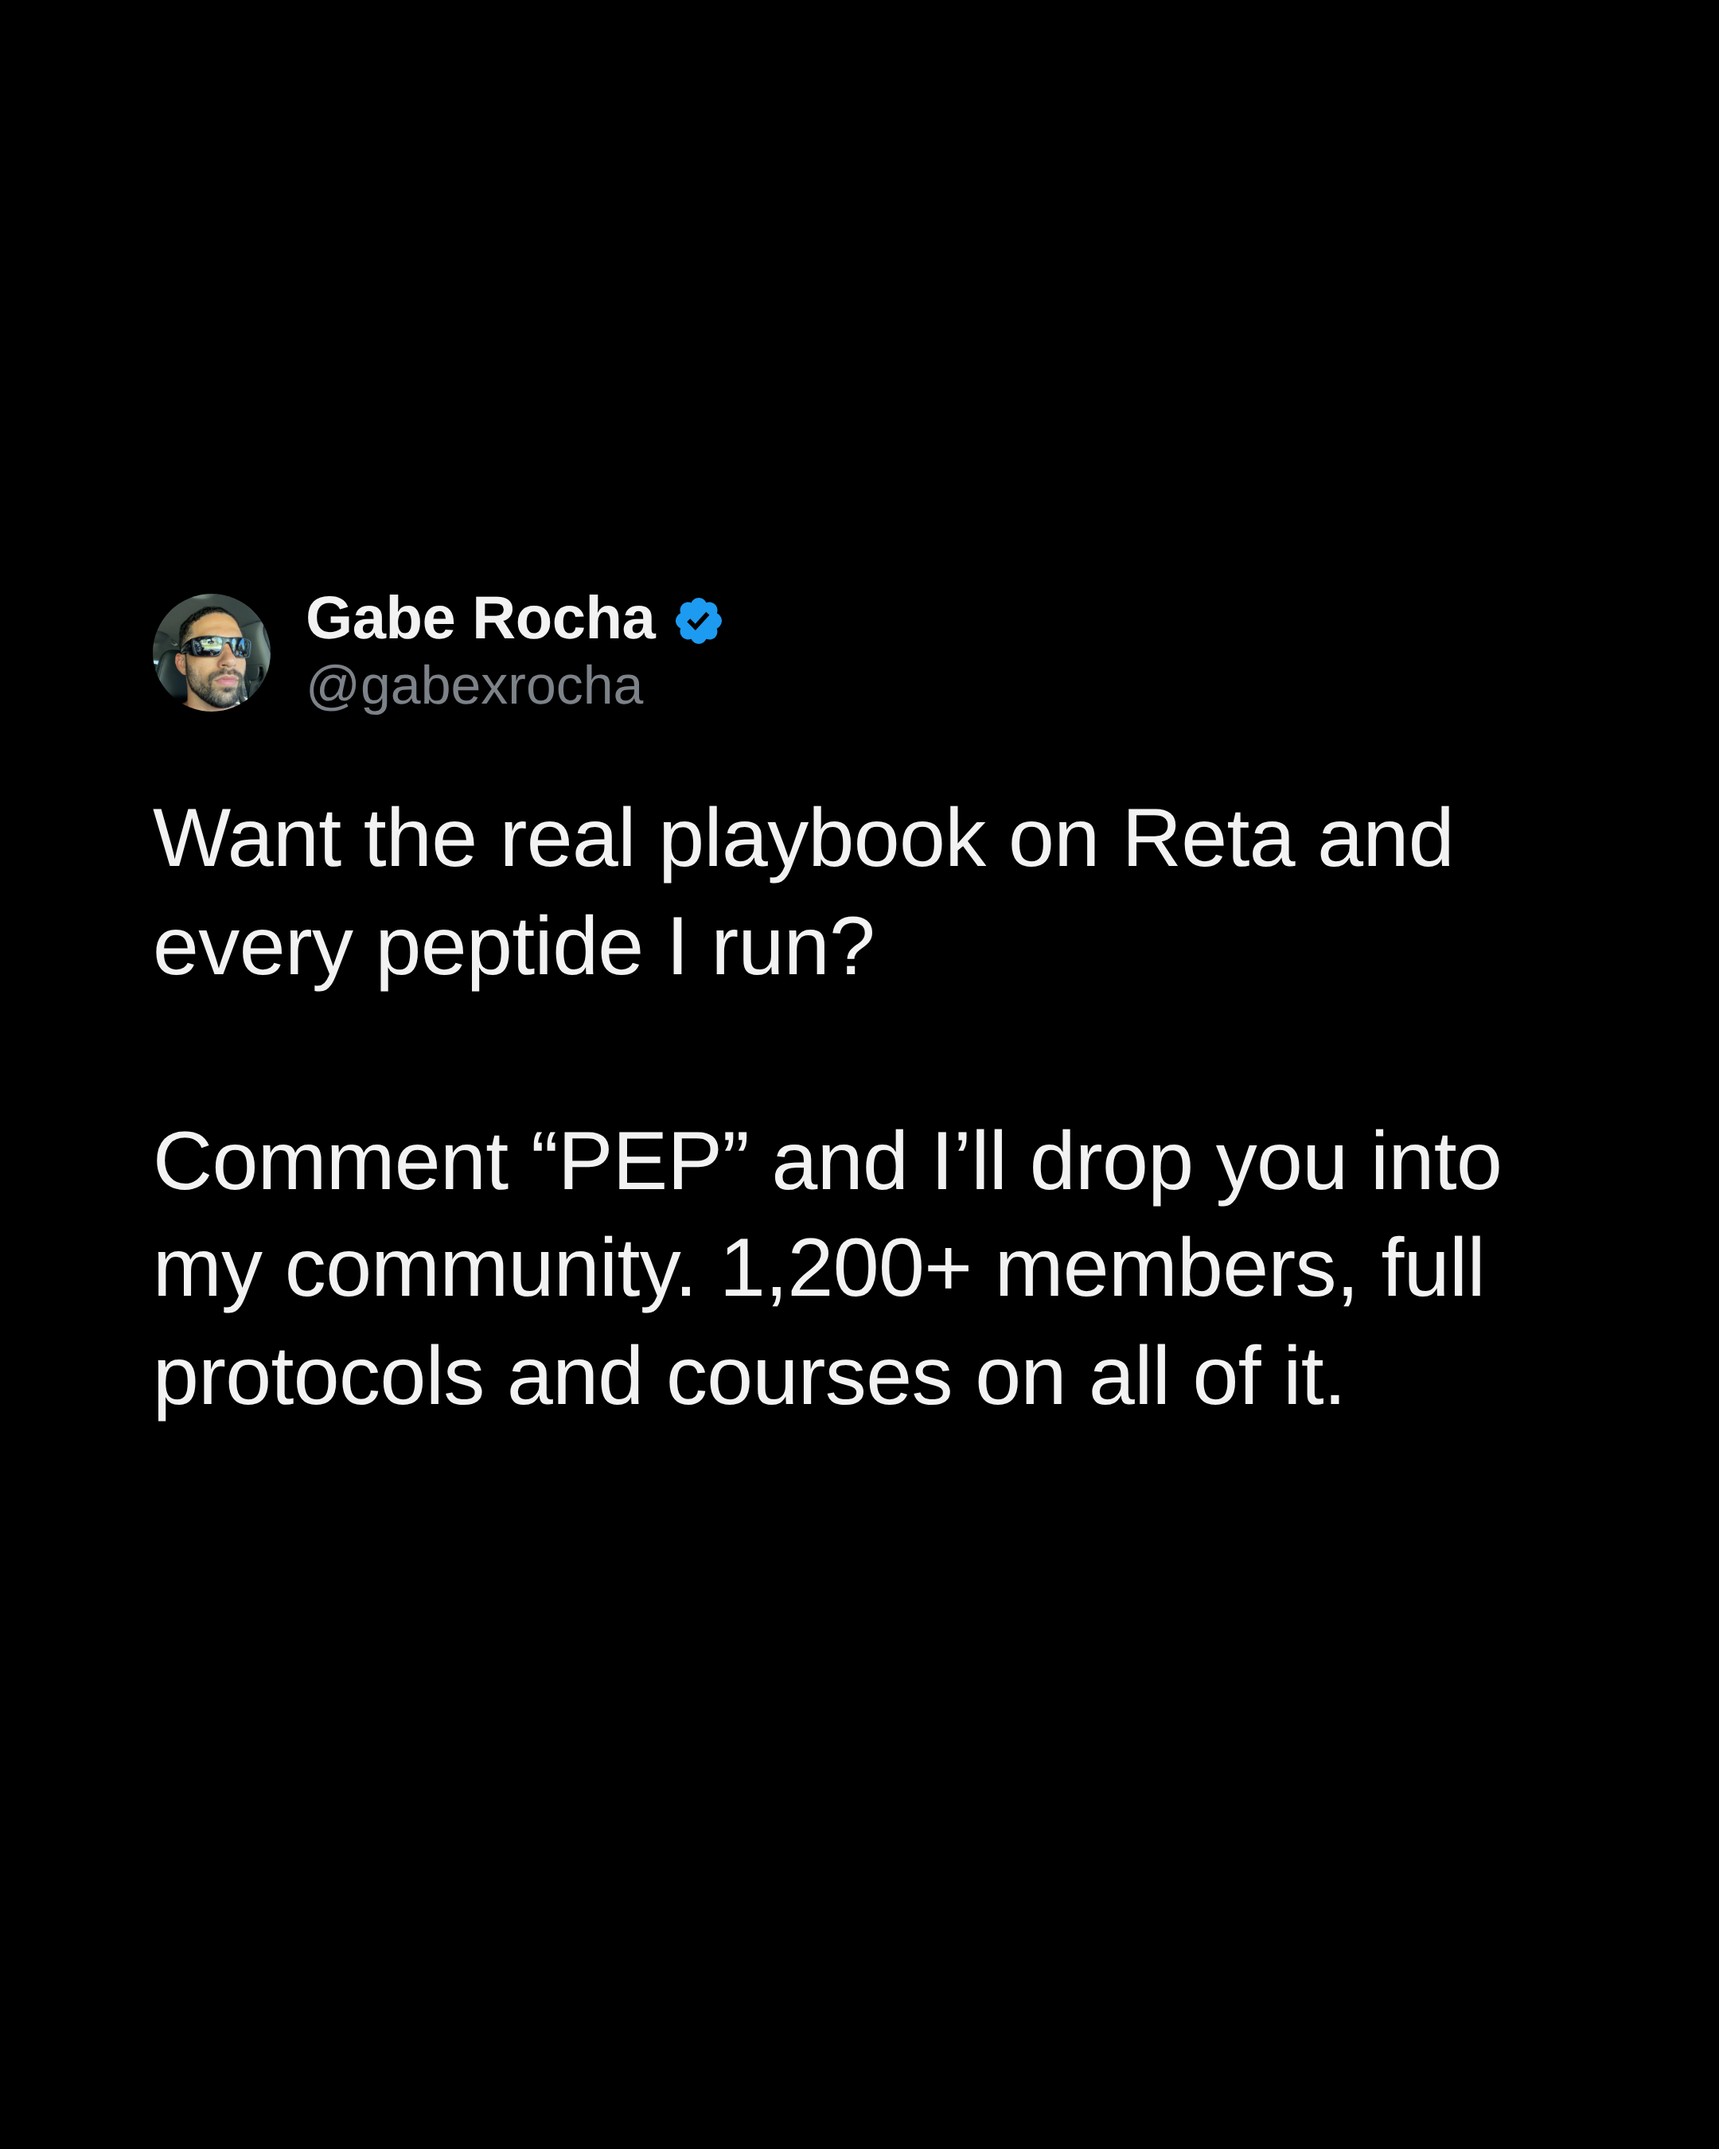
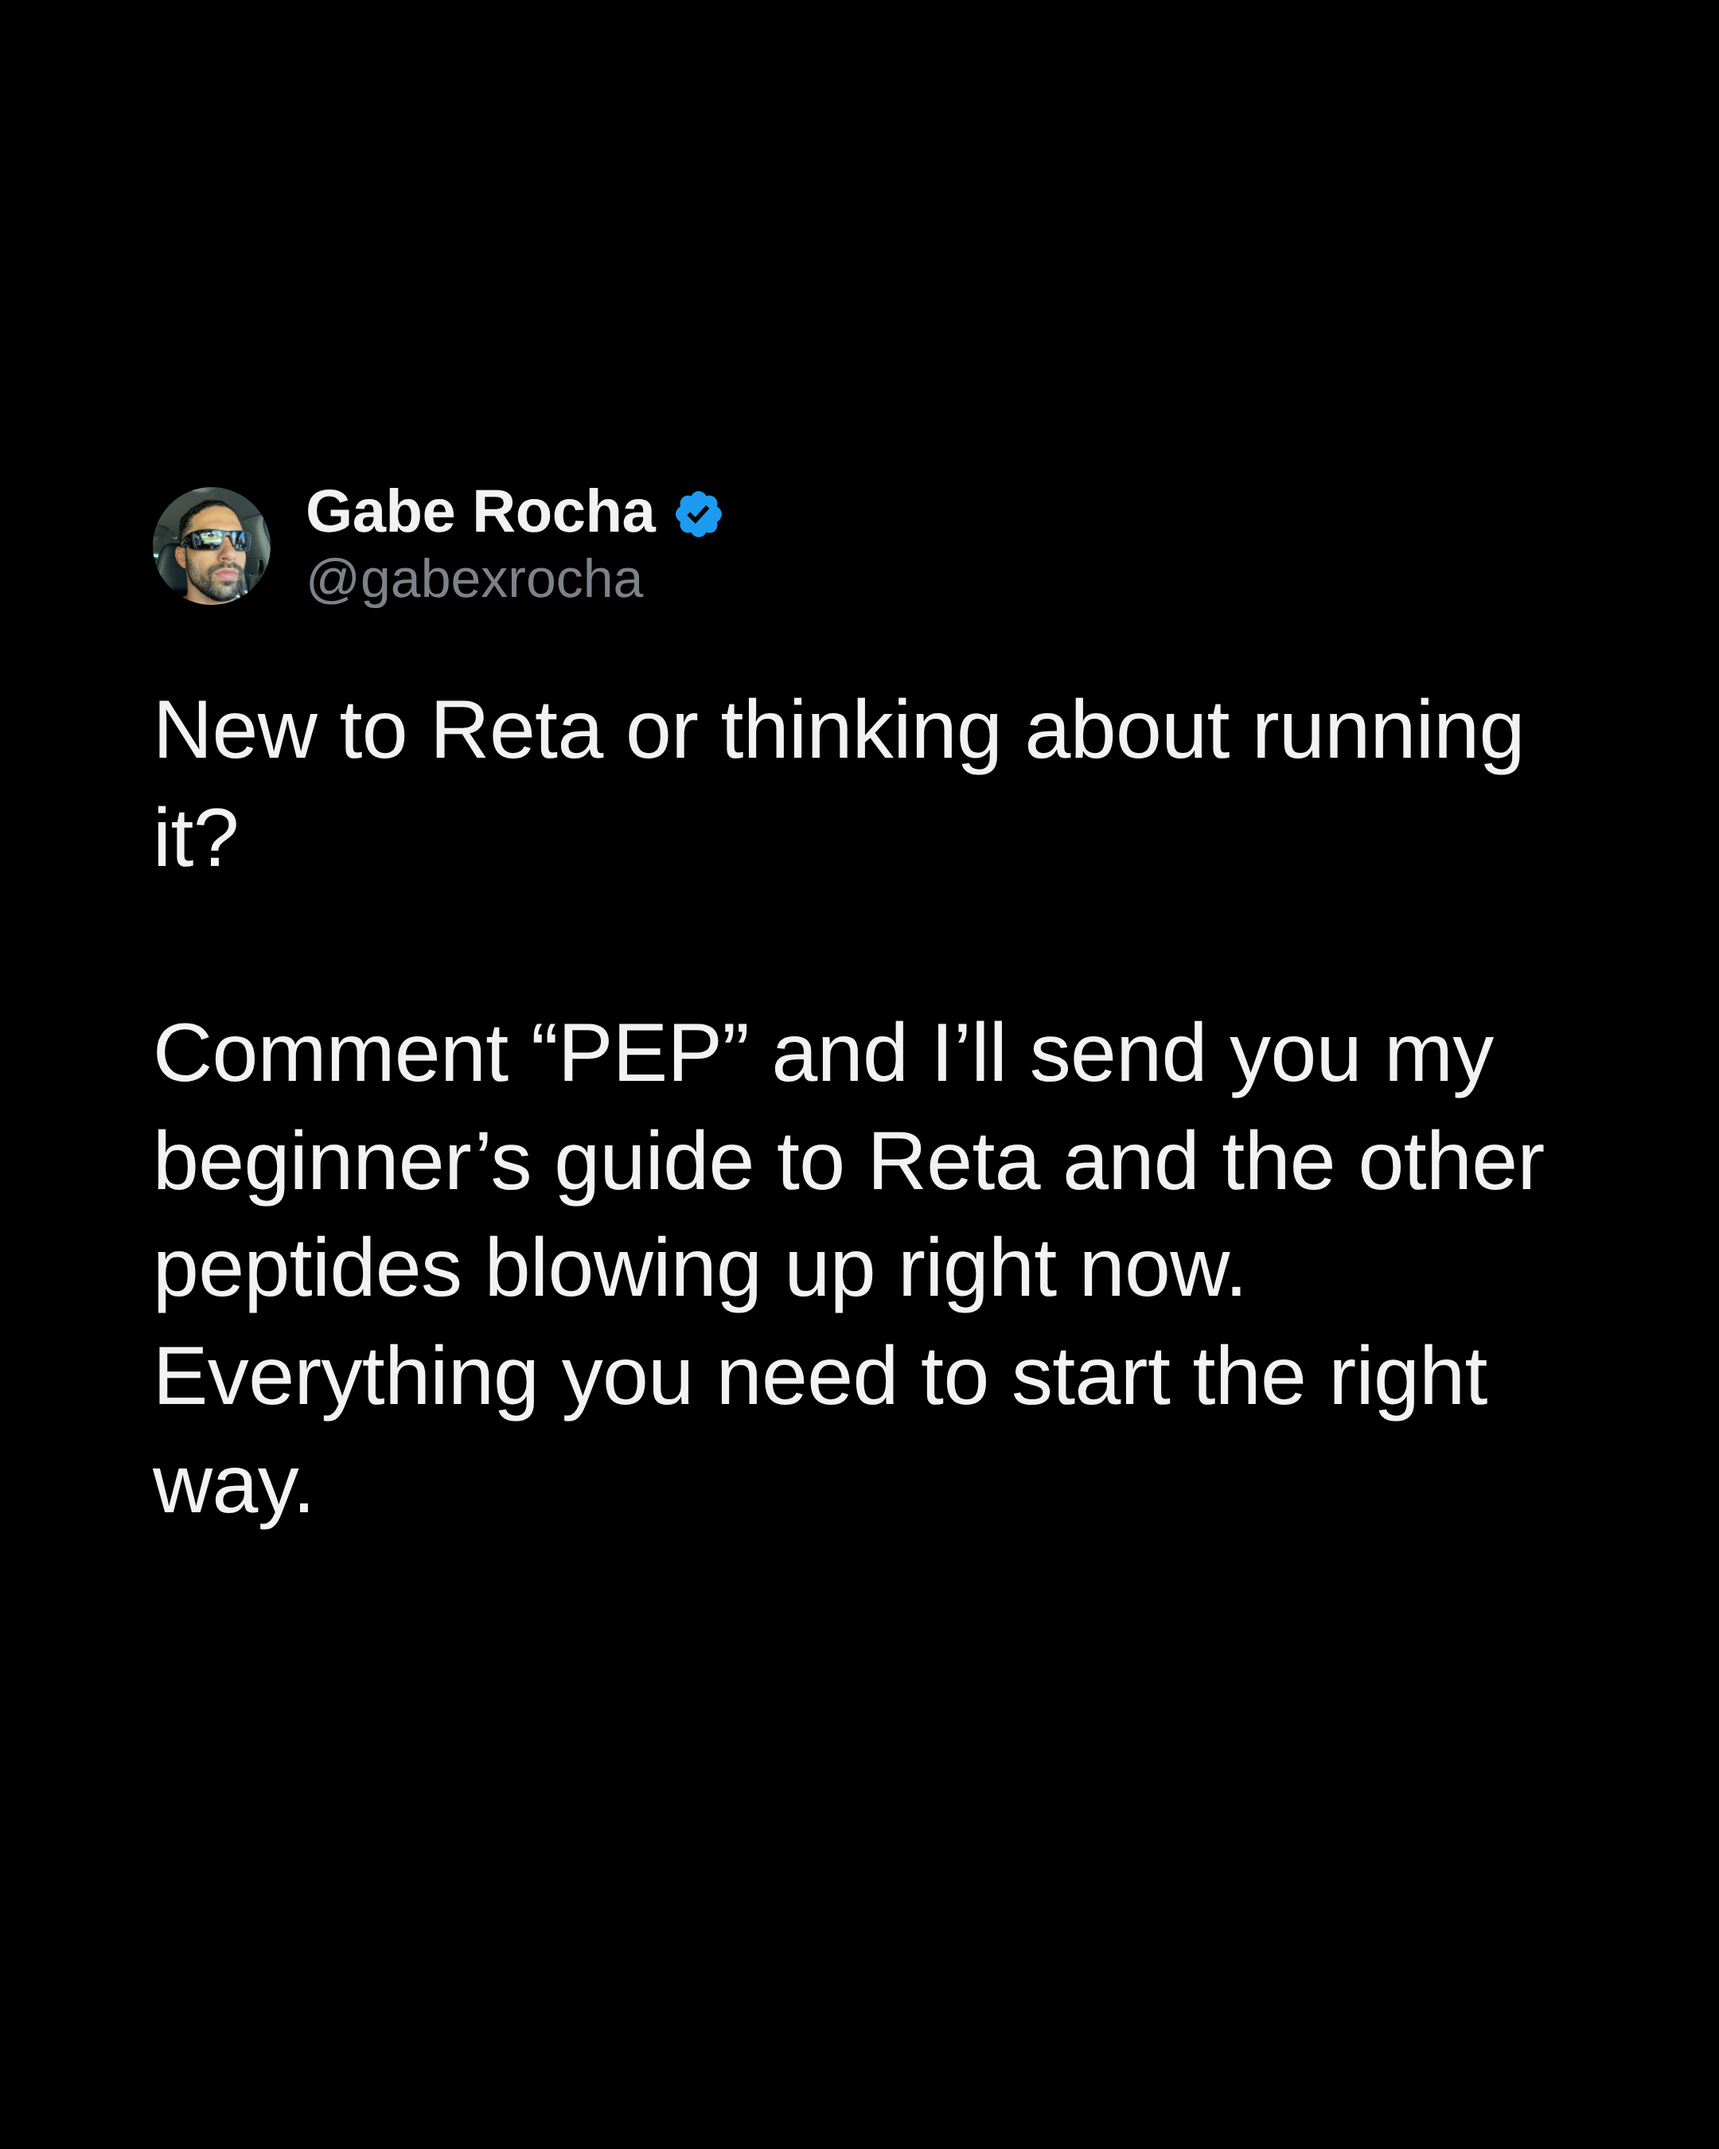
Reframe CTA as beginner's guide lead magnet
Slide 7 now offers a beginner's guide to Reta and other trending
peptides in exchange for the 'PEP' comment, instead of a community pitch.

Claude-Session: https://claude.ai/code/session_01KhMAB4xGLRey4k1bYPicjG

Changed region(s): [[0.0931, 0.4356, 0.8995, 0.6533], [0.0931, 0.2178, 0.8995, 0.4044], [0.0931, 0.6844, 0.1861, 0.7156]]

diff --git a/carousel.html b/carousel.html
@@ -98,9 +98,9 @@ You didn’t get lightweight. Your body changed the math.` },
   { html:`Stack on top of that: Reta kills your appetite, so you’re drinking on an <b>empty stomach</b> without even realizing it.
 
 Nothing in there to slow it down means it hits faster and harder every single time.` },
-  { kind:"cta", html:`Want the real playbook on Reta and every peptide I run?
+  { kind:"cta", html:`New to Reta or thinking about running it?
 
-Comment “PEP” and I’ll drop you into my community. 1,200+ members, full protocols and courses on all of it.` },
+Comment “PEP” and I’ll send you my beginner’s guide to Reta and the other peptides blowing up right now. Everything you need to start the right way.` },
 ];
 
 const BADGE = `<svg class="badge" viewBox="0 0 22 22" aria-hidden="true"><path fill="#1d9bf0" d="M20.396 11c-.018-.646-.215-1.275-.57-1.816-.354-.54-.852-.972-1.438-1.246.223-.607.27-1.264.14-1.897-.131-.634-.437-1.218-.882-1.687-.47-.445-1.053-.75-1.687-.882-.633-.13-1.29-.083-1.897.14-.273-.587-.704-1.086-1.245-1.44-.541-.354-1.17-.551-1.816-.569-.646.018-1.275.215-1.816.569-.541.354-.972.853-1.245 1.44-.607-.223-1.264-.27-1.898-.14-.633.132-1.216.437-1.686.882-.445.47-.75 1.053-.882 1.687-.13.633-.083 1.29.14 1.897-.587.274-1.086.705-1.44 1.246-.354.541-.551 1.17-.569 1.816.018.646.215 1.275.569 1.816.354.541.853.972 1.44 1.245-.223.608-.27 1.265-.14 1.898.132.634.437 1.217.882 1.687.47.445 1.053.75 1.687.882.633.13 1.29.083 1.897-.14.274.587.705 1.086 1.246 1.44.541.354 1.17.551 1.816.569.646-.018 1.275-.215 1.816-.569.541-.354.972-.853 1.245-1.44.604.239 1.266.303 1.906.185.64-.118 1.232-.413 1.703-.848.435-.47.73-1.063.848-1.703.118-.64.054-1.302-.185-1.906.587-.273 1.086-.704 1.44-1.245.354-.541.551-1.17.569-1.816zM9.662 14.85l-3.429-3.428 1.293-1.302 2.072 2.072 4.4-4.794 1.347 1.246z"/></svg>`;
